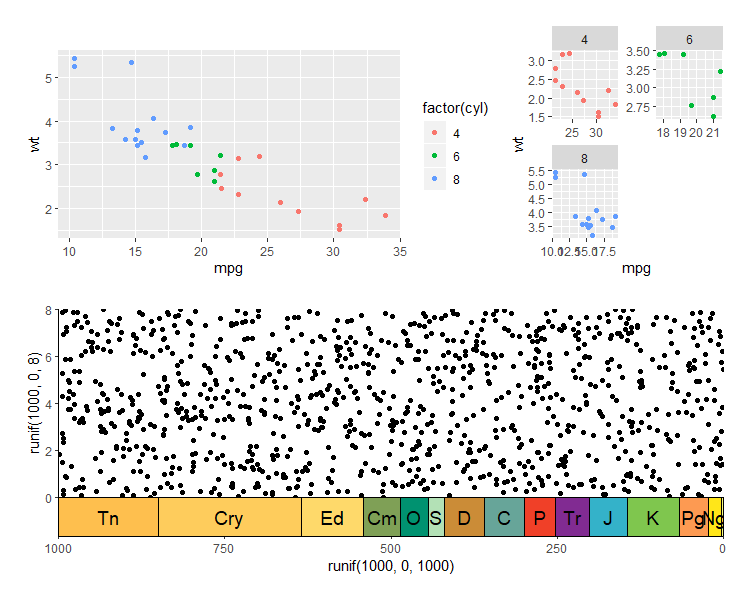
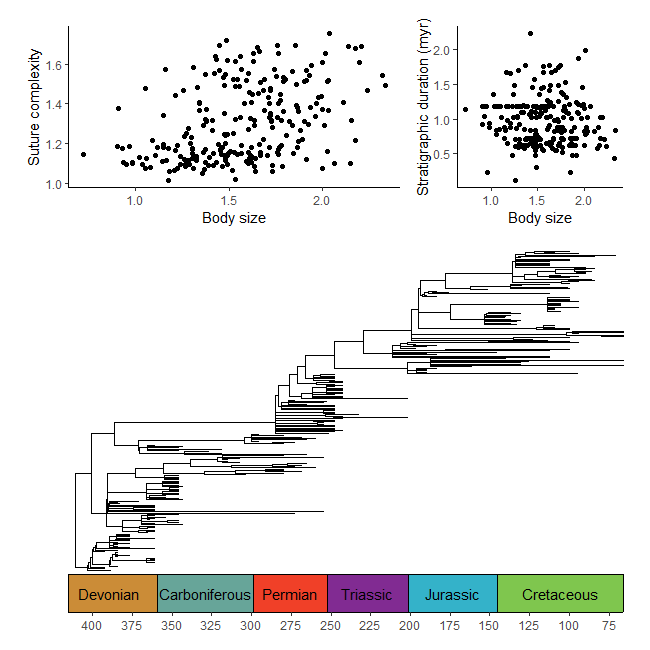
Replace readme ggarrange2 example

diff --git a/README.md b/README.md
@@ -135,18 +135,26 @@ ggtree(ceratopsianTreeRaia, position = position_nudge(x = -ceratopsianTreeRaia$r
 
 ### Combine plots with timescales and plots without timescales
 ```r
-p1 <- ggplot(mtcars, aes(mpg, wt, colour = factor(cyl))) +
-  geom_point()
-p2 <- ggplot(mtcars, aes(mpg, wt, colour = factor(cyl))) +
-  geom_point() + facet_wrap( ~ cyl, ncol=2, scales = 'free') +
-  guides(colour='none') +
-  theme()
-p3 <- ggplot() +
-  geom_point(aes(y = runif(1000, 0, 8), x = runif(1000, 0, 1000))) +
-  scale_x_reverse() +
-  coord_geo(xlim = c(1000, 0), ylim = c(0,8)) +
+library(paleotree)
+data(RaiaCopesRule)
+p1 <- ggplot(ammoniteTraitsRaia) +
+  geom_point(aes(x = Log_D, y = FD)) +
+  labs(x = "Body size", y = "Suture complexity") +
   theme_classic()
-ggarrange2(ggarrange2(p1, p2, widths = c(2,1), draw = FALSE), p3, nrow = 2)
+
+p2 <- ggplot(ammoniteTraitsRaia) +
+  geom_point(aes(x = Log_D, y = log_dur)) +
+  labs(x = "Body size", y = "Stratigraphic duration (myr)") +
+  theme_classic()
+
+p3 <- ggtree(ammoniteTreeRaia, position = position_nudge(x = -ammoniteTreeRaia$root.time)) +
+  coord_geo(xlim = c(-415,-66), ylim = c(-2,Ntip(ammoniteTreeRaia)), pos = "bottom",
+            size = 4, abbrv = FALSE, neg = TRUE) +
+  scale_x_continuous(breaks = seq(-425, -50, 25), labels = -seq(-425, -50, 25)) +
+  theme_tree2() +
+  theme(plot.margin = margin(7,11,7,11))
+
+ggarrange2(ggarrange2(p1, p2, widths = c(2,1), draw = FALSE), p3, nrow = 2, heights = c(1,2))
 ```
 
 ![example ggarrange2](/images/ggarrange2.png?raw=true)
